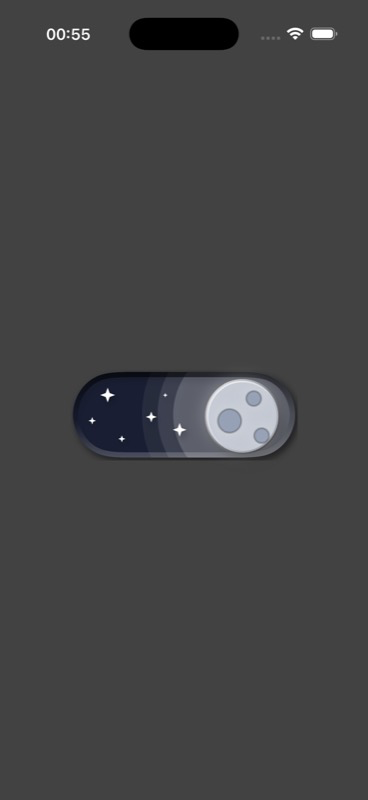
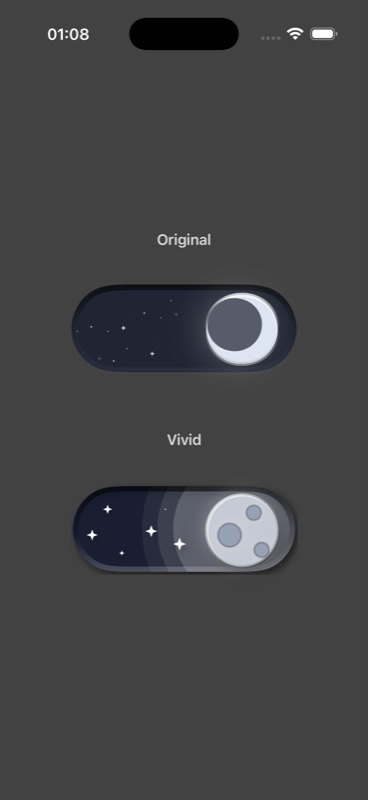
feat(app): show both toggle styles

Changed region(s): [[0.1793, 0.3438, 0.8071, 0.7188], [0.4185, 0.2812, 0.5679, 0.3125], [0.1196, 0.0312, 0.2391, 0.0625]]

diff --git a/DarkModeSwitchDemo/DarkModeSwitchDemo/ContentView.swift b/DarkModeSwitchDemo/DarkModeSwitchDemo/ContentView.swift
@@ -10,9 +10,17 @@ struct ContentView: View {
             screenBackground
                 .ignoresSafeArea()
 
-            DarkModeToggle(vividIsDarkMode: $isDarkMode)
-                .frame(width: 260)
-                .padding(32)
+            VStack(spacing: 36) {
+                toggleDemo("Original") {
+                    DarkModeToggle(isDarkMode: $isDarkMode)
+                        .accessibilityIdentifier("originalDarkModeToggle")
+                }
+
+                toggleDemo("Vivid") {
+                    DarkModeToggle(vividIsDarkMode: $isDarkMode)
+                }
+            }
+            .padding(32)
         }
         .animation(
             reduceMotion ? .easeOut(duration: 0.2) : .easeInOut(duration: 0.5),
@@ -25,6 +33,24 @@ struct ContentView: View {
         isDarkMode
             ? Color(red: 66 / 255, green: 66 / 255, blue: 66 / 255)
             : Color(red: 235 / 255, green: 246 / 255, blue: 1)
+    }
+
+    private var labelColor: Color {
+        isDarkMode ? .white.opacity(0.82) : .black.opacity(0.68)
+    }
+
+    private func toggleDemo<Content: View>(
+        _ title: LocalizedStringKey,
+        @ViewBuilder content: () -> Content
+    ) -> some View {
+        VStack(spacing: 12) {
+            Text(title)
+                .font(.headline.weight(.semibold))
+                .foregroundStyle(labelColor)
+
+            content()
+                .frame(width: 260)
+        }
     }
 }
 

diff --git a/DarkModeSwitchDemo/DarkModeSwitchDemoUITests/DarkModeSwitchDemoUITests.swift b/DarkModeSwitchDemo/DarkModeSwitchDemoUITests/DarkModeSwitchDemoUITests.swift
@@ -24,6 +24,26 @@ final class DarkModeSwitchDemoUITests: XCTestCase {
     }
 
     @MainActor
+    func testOriginalAndVividStylesStaySynchronized() throws {
+        let app = launchInLightMode()
+        let originalToggle = app.buttons["originalDarkModeToggle"]
+        let vividToggle = app.buttons["darkModeToggle"]
+
+        XCTAssertTrue(originalToggle.waitForExistence(timeout: 3))
+        XCTAssertTrue(vividToggle.waitForExistence(timeout: 3))
+        XCTAssertEqual(originalToggle.value as? String, "Off")
+        XCTAssertEqual(vividToggle.value as? String, "Off")
+
+        originalToggle.tap()
+        waitForValue("On", on: originalToggle)
+        waitForValue("On", on: vividToggle)
+
+        vividToggle.tap()
+        waitForValue("Off", on: originalToggle)
+        waitForValue("Off", on: vividToggle)
+    }
+
+    @MainActor
     func testHorizontalDragCommitsOnceAndNextTapStillWorks() throws {
         let app = launchInLightMode()
         let toggle = app.buttons["darkModeToggle"]

diff --git a/DarkModeSwitchDemo/DarkModeSwitchDemo/DarkModeSwitchDemoApp.swift b/DarkModeSwitchDemo/DarkModeSwitchDemo/DarkModeSwitchDemoApp.swift
@@ -5,6 +5,8 @@ struct DarkModeSwitchDemoApp: App {
     init() {
         if ProcessInfo.processInfo.arguments.contains("--ui-testing-light-mode") {
             UserDefaults.standard.set(false, forKey: "isDarkMode")
+        } else if ProcessInfo.processInfo.arguments.contains("--ui-testing-dark-mode") {
+            UserDefaults.standard.set(true, forKey: "isDarkMode")
         }
     }
 

diff --git a/README.md b/README.md
@@ -1,7 +1,7 @@
 # Dark Mode Switch Button
 
-一个面向 iOS 17+ 的 SwiftUI 演示项目。当前页面展示更鲜明的日夜切换风格，
-并把开关作为真正的 App 外观控制使用；Swift Package 同时保留原有视觉风格。
+一个面向 iOS 17+ 的 SwiftUI 演示项目。当前页面同时展示 Original 与 Vivid
+两种日夜切换风格，并让它们共同控制真正的 App 外观。
 
 | Light | Dark |
 | --- | --- |
@@ -19,9 +19,8 @@
 - [DarkModeToggle](https://github.com/HideOnBushTuT/DarkModeToggle)：
   独立 Swift Package，保存组件源码、几何/素材测试和版本 Tag。
 
-在 Package 新风格审核期间，这个 App 分支暂时锁定远程
-`codex/vivid-toggle-style` 分支的提交 `d3f7819`。Package 发布新语义化版本后，
-App 会在最终集成前恢复为版本依赖；Clone 后不需要复制组件源码。
+App 当前通过 `DarkModeToggle 3.1.0` 使用两种组件风格，`Package.resolved`
+锁定了实际提交；Clone 后不需要复制组件源码。
 
 ## 运行环境
 
@@ -61,8 +60,7 @@ cd DarkModeSwitchButton
 
 选择 `DarkModeSwitchDemo` Scheme 和一个 iPhone Simulator，然后 Run。
 Xcode 会读取 `Package.resolved` 并下载
-`https://github.com/HideOnBushTuT/DarkModeToggle.git` 的
-`codex/vivid-toggle-style` 分支。
+`https://github.com/HideOnBushTuT/DarkModeToggle.git` 的 `3.1.0` 版本。
 
 使用 XcodeBuildMCP 构建：
 
@@ -137,8 +135,11 @@ App 本地 `ContentView.swift` 导入 `DarkModeSwitchDemoFeature` 并组合
 ```swift
 @AppStorage("isDarkMode") private var isDarkMode = false
 
-DarkModeToggle(vividIsDarkMode: $isDarkMode)
-    .preferredColorScheme(isDarkMode ? .dark : .light)
+VStack {
+    DarkModeToggle(isDarkMode: $isDarkMode)
+    DarkModeToggle(vividIsDarkMode: $isDarkMode)
+}
+.preferredColorScheme(isDarkMode ? .dark : .light)
 ```
 
 数据流如下：
@@ -147,7 +148,7 @@ DarkModeToggle(vividIsDarkMode: $isDarkMode)
 UserDefaults
     ⇅ @AppStorage("isDarkMode")
 ContentView (App repository)
-    ├── Binding<Bool> ⇄ DarkModeToggle 的已提交明暗端点
+    ├── Binding<Bool> ⇄ Original / Vivid 的同一个已提交明暗端点
     ├── preferredColorScheme ──→ 整个 WindowGroup 的 Light/Dark 外观
     └── screenBackground ──→ 演示页背景色
 
@@ -172,19 +173,25 @@ DarkModeToggle
 │   └── 方向、进度、钳制与预测终点
 ├── DarkModeToggleVisuals
 │   └── 可中断的当前呈现进度
-├── VividToggleTrack
+├── ToggleTrack（Original）
+│   ├── RoundedRectangle 背景、外边框与内高光
+│   ├── DayScene ──→ 4 组 Canvas 云层
+│   └── NightScene ──→ 22 颗 FourPointStar
+├── VividToggleTrack（Vivid）
 │   ├── RoundedRectangle 背景、外边框与 3 层移动光环
 │   ├── VividDayScene
 │   │   └── 2 组 Canvas 云层
 │   └── VividNightScene
 │       └── 6 颗缩放闪烁的 FourPointStar
 └── CelestialThumb
-    ├── VividSunDisc
-    └── VividMoonDisc + 3 个环形山
+    ├── SunDisc / MoonDisc + MoonOcclusionShape（Original）
+    └── VividSunDisc / VividMoonDisc + 3 个环形山（Vivid）
 ```
 
 调用 `DarkModeToggle(isDarkMode:)` 仍会进入原有 `ToggleTrack`、`DayScene`、
-`NightScene`、`SunDisc` 和月牙绘制路径；新 Demo 只通过不同初始化方式选择新风格。
+`NightScene`、`SunDisc` 和月牙绘制路径；调用
+`DarkModeToggle(vividIsDarkMode:)` 会进入新风格。Demo 同时调用两个初始化方式，
+并将它们绑定到同一个 `@AppStorage` 状态。
 
 ### 1. 自适应几何
 
@@ -339,8 +346,9 @@ xcodebuildmcp swift-package test \
   --configuration Debug
 ```
 
-### App：4 项 XCUITest
+### App：5 项 XCUITest
 
+- Original 与 Vivid 操作任意一个时会保持状态同步。
 - 动画尚未结束时快速反向切换，值仍能正确回到 `Off`。
 - 切换到 Dark 后终止并重新启动 App，`@AppStorage` 状态仍为 `On`。
 - 水平拖动可以进入/退出 Dark，且一次手势只提交一次。
@@ -375,18 +383,16 @@ gh auth status
 git ls-remote https://github.com/HideOnBushTuT/DarkModeToggle.git
 ```
 
-### Package 分支无法解析
+### Package 版本无法解析
 
-在跨仓库 PR 审核期间，确认远端存在 `codex/vivid-toggle-style` 分支，项目中的
-`Package.resolved` 应显示：
+确认远端存在 `3.1.0` Tag，项目中的 `Package.resolved` 应显示：
 
 - Identity：`darkmodetoggle`
-- Branch：`codex/vivid-toggle-style`
-- Revision：`d3f7819c1a3058911bf120f8c4cf106b6cfb6529`
+- Version：`3.1.0`
+- Revision：`d95b51f96b47dfcd7e103a364a9d93c34329787a`
 
-这个分支依赖只用于同时审核 Package 与 App。Package 合并并发布后，最终集成前
-应把 Xcode Project 改回 `upToNextMajorVersion`，并让 `Package.resolved` 记录
-新的语义化版本。不要在 App 仓库中重新创建同名本地 Package 目录。
+如果要开发 Package，请单独 Clone `DarkModeToggle`，提交并发布新版本；
+不要在 App 仓库中重新创建同名本地 Package 目录。
 
 ### Swift tools 版本不兼容
 

diff --git a/DarkModeSwitchDemo/CLAUDE.md b/DarkModeSwitchDemo/CLAUDE.md
@@ -9,10 +9,8 @@ The application consumes the private `DarkModeToggle` Swift Package from:
 https://github.com/HideOnBushTuT/DarkModeToggle.git
 ```
 
-While the vivid style is under review, this integration branch resolves
-`codex/vivid-toggle-style` at `d3f7819c1a3058911bf120f8c4cf106b6cfb6529`.
-Move the App back to a semantic Package release before final integration. The
-Swift product and import name are `DarkModeSwitchDemoFeature`.
+The resolved release is `3.1.0`. The Swift product and import name are
+`DarkModeSwitchDemoFeature`.
 
 ## Repository boundary
 
@@ -35,8 +33,7 @@ Swift product and import name are `DarkModeSwitchDemoFeature`.
 
 Do not add an embedded local Package directory to this repository. Feature
 changes belong in the separate Package repository and must be consumed through
-a new semantic version. A remote feature branch may be pinned temporarily in an
-App review branch when both sides of a cross-repository change are under review.
+a new semantic version.
 
 ## SwiftUI conventions
 
